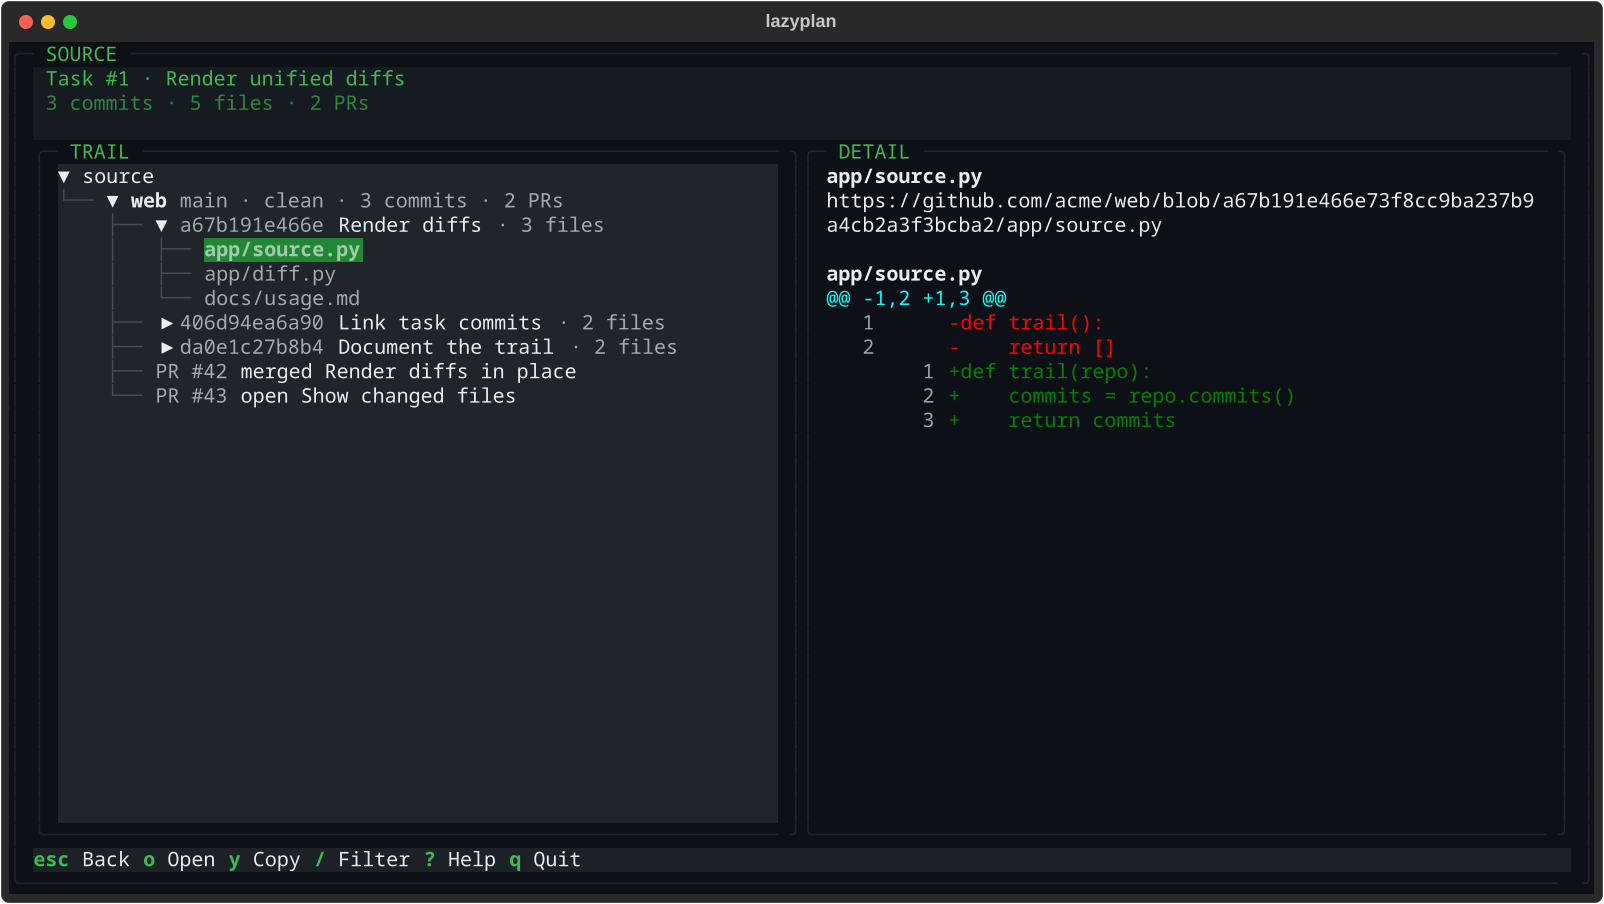
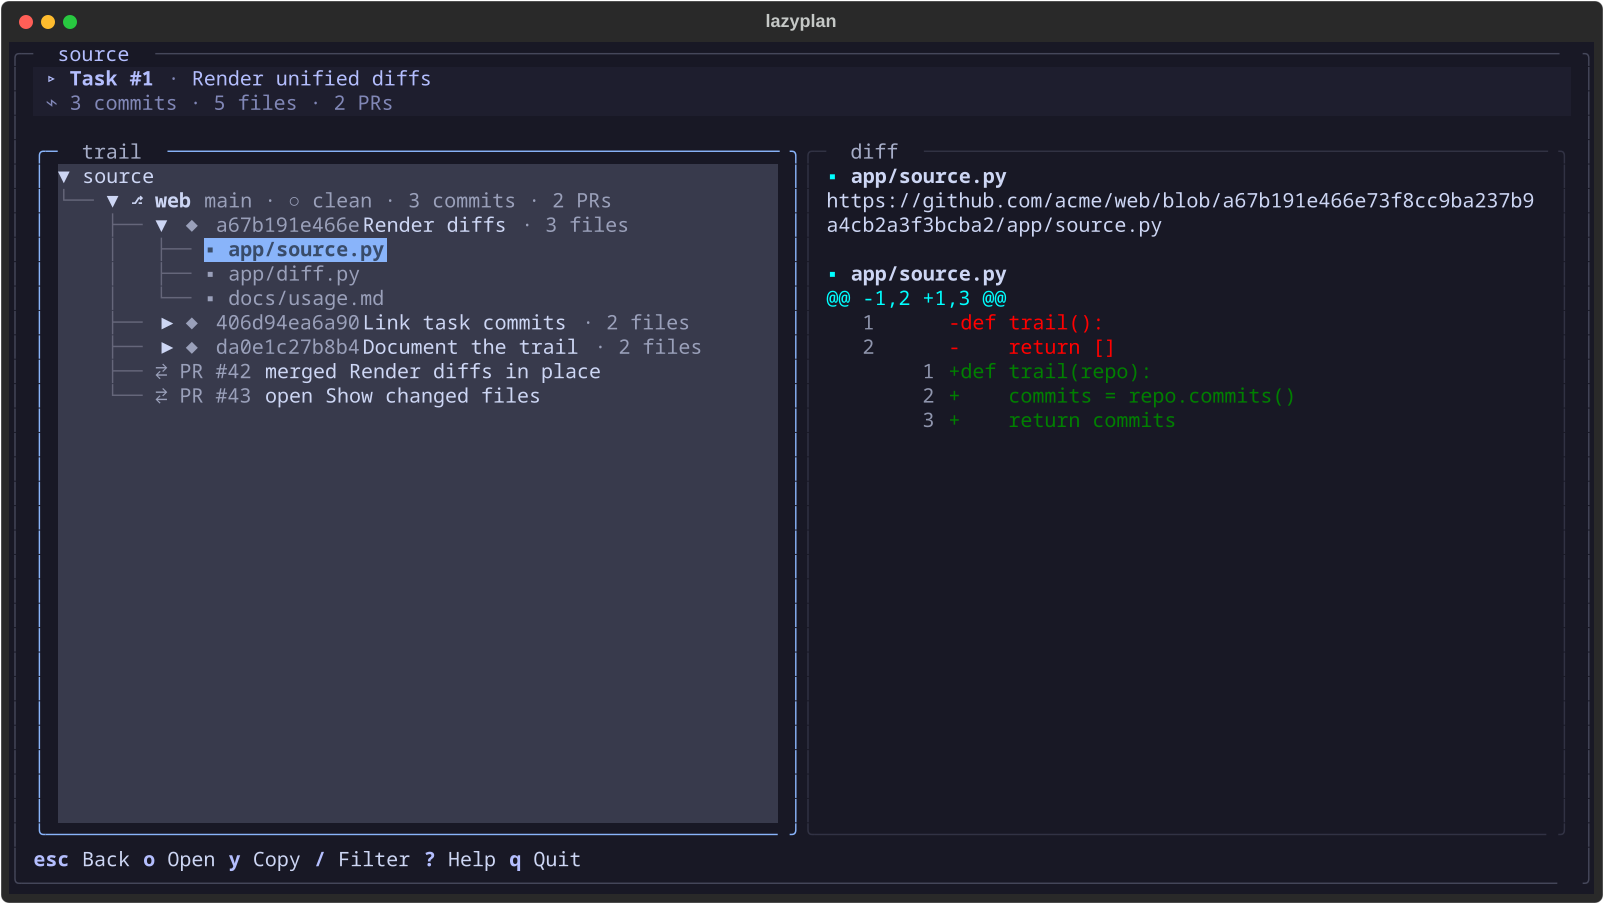
site: regenerate the 0.30 screenshots

diff --git a/site/index.html b/site/index.html
@@ -309,7 +309,7 @@ Task · Add the token model        done</pre>
   <div class="mb-10 max-w-2xl md:mb-14">
     <p class="mb-3 text-sm font-semibold uppercase tracking-[0.18em] text-cyber-cyan">Screenshots</p>
     <h2 class="mb-4 text-2xl font-bold text-white md:text-3xl">See it in action.</h2>
-    <p class="text-lg text-zinc-400">One shared plan. You stay in control. Your agent does the busywork.</p>
+    <p class="text-lg text-zinc-400">One shared plan, three themes, and the git context for every row. You stay in control; your agent does the busywork.</p>
   </div>
   <div class="grid grid-cols-1 gap-8 md:grid-cols-2">
     <figure class="m-0">
@@ -328,6 +328,20 @@ Task · Add the token model        done</pre>
     </figure>
     <figure class="m-0">
       <picture>
+        <source srcset="./screens/lpui-git-pane.webp" type="image/webp">
+        <img src="./screens/lpui-git-pane.png" width="1604" height="904" loading="lazy" decoding="async" alt="Main shell with a linked task selected, showing the sticky preview above a GIT pane with the checkout, branch, commits, and pull requests." class="block h-auto w-full rounded-xl border border-plan-border">
+      </picture>
+      <figcaption class="mt-2 text-sm text-zinc-400">The checkout, commits, and pull requests for the row you are reading.</figcaption>
+    </figure>
+    <figure class="m-0">
+      <picture>
+        <source srcset="./screens/lpui-timeline.webp" type="image/webp">
+        <img src="./screens/lpui-timeline.png" width="1604" height="904" loading="lazy" decoding="async" alt="Main shell with a task selected, showing the timeline card's project, milestone, and task lanes with the scoped plan in its border." class="block h-auto w-full rounded-xl border border-plan-border">
+      </picture>
+      <figcaption class="mt-2 text-sm text-zinc-400">Every lane stays visible; the scoped plan names the card.</figcaption>
+    </figure>
+    <figure class="m-0">
+      <picture>
         <source srcset="./screens/lpui-source-trail.webp" type="image/webp">
         <img src="./screens/lpui-source-trail.png" width="1604" height="904" loading="lazy" decoding="async" alt="Source trail for a task with a repository, commits, changed files, pull requests, and a selected file diff." class="block h-auto w-full rounded-xl border border-plan-border">
       </picture>
@@ -339,6 +353,20 @@ Task · Add the token model        done</pre>
         <img src="./screens/lpui-search-bulk.png" width="1604" height="904" loading="lazy" decoding="async" alt="Plan tree with three marked tasks, checkmarks on each row, and a marked count in the status line." class="block h-auto w-full rounded-xl border border-plan-border">
       </picture>
       <figcaption class="mt-2 text-sm text-zinc-400">Find the row, mark the set, edit once.</figcaption>
+    </figure>
+    <figure class="m-0">
+      <picture>
+        <source srcset="./screens/lpui-theme-void.webp" type="image/webp">
+        <img src="./screens/lpui-theme-void.png" width="1604" height="904" loading="lazy" decoding="async" alt="lazyplan main shell in the OLED-black void theme, with the plan tree, sticky preview, GIT pane, and timeline." class="block h-auto w-full rounded-xl border border-plan-border">
+      </picture>
+      <figcaption class="mt-2 text-sm text-zinc-400">OLED-black <code class="inline-code">void</code> for dark rooms.</figcaption>
+    </figure>
+    <figure class="m-0">
+      <picture>
+        <source srcset="./screens/lpui-theme-latte.webp" type="image/webp">
+        <img src="./screens/lpui-theme-latte.png" width="1604" height="904" loading="lazy" decoding="async" alt="lazyplan main shell in the light Latte theme, with the plan tree, sticky preview, GIT pane, and timeline." class="block h-auto w-full rounded-xl border border-plan-border">
+      </picture>
+      <figcaption class="mt-2 text-sm text-zinc-400">Latte when the room is bright. Press <code class="inline-code">t</code> to cycle.</figcaption>
     </figure>
   </div>
 </section>
